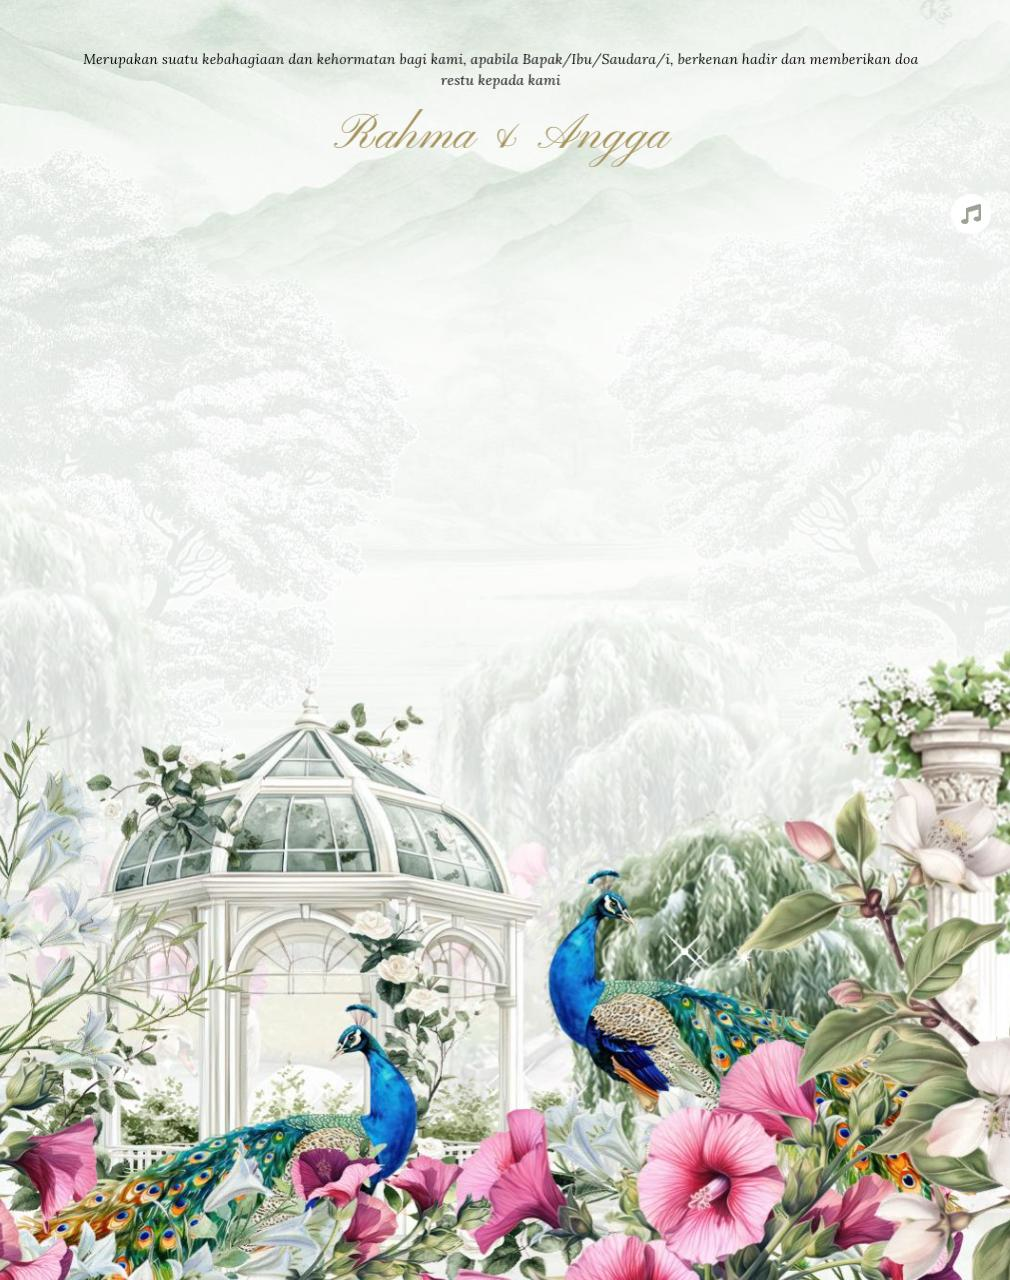
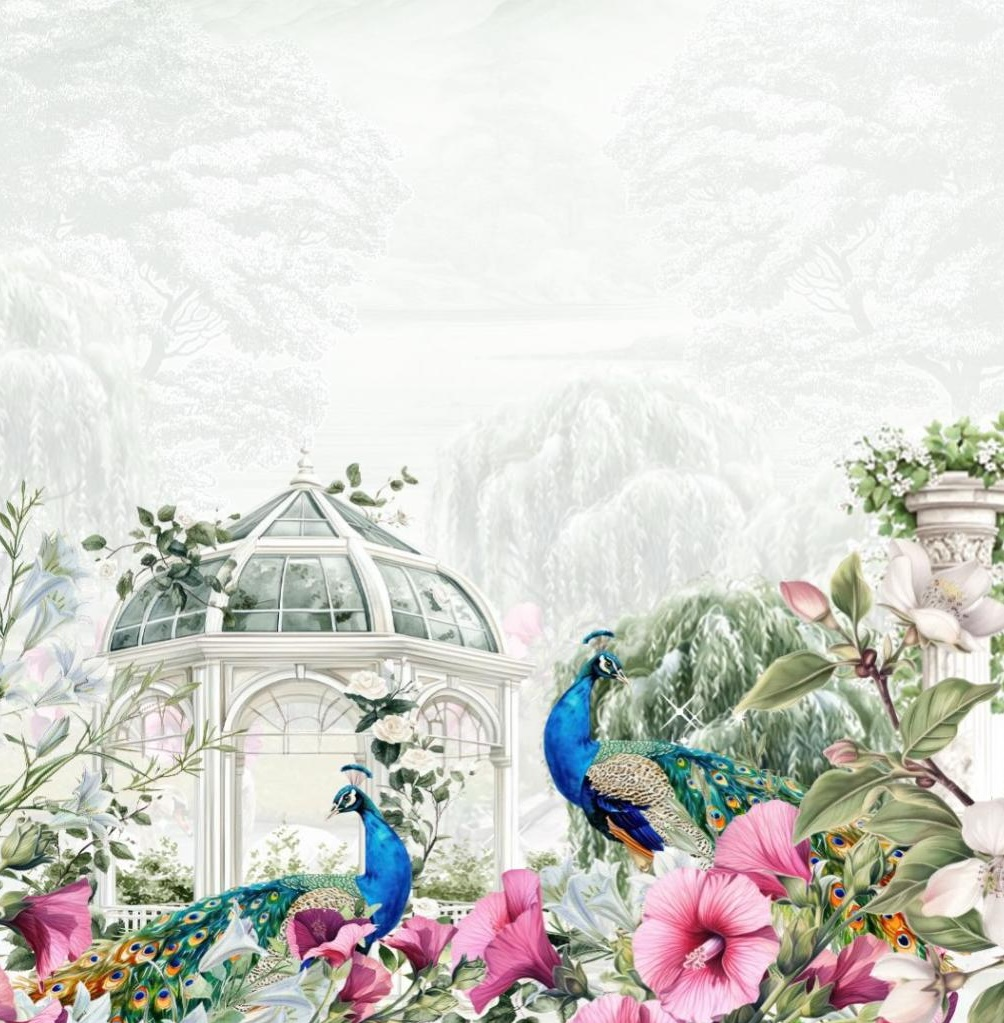
update card gabungan

diff --git a/src/app/page.tsx b/src/app/page.tsx
@@ -25,6 +25,7 @@ export default function WeddingGuestBook() {
   const [loading, setLoading] = useState(true);
   const [searchQuery, setSearchQuery] = useState("");
   const [selectedGuest, setSelectedGuest] = useState<Guest | null>(null);
+  const [grandStats, setGrandStats] = useState<{ total: number; hadir: number; totalOrang: number }>({ total: 0, hadir: 0, totalOrang: 0 });
   
   // Modal state
   const [isSubmitting, setIsSubmitting] = useState(false);
@@ -63,23 +64,26 @@ export default function WeddingGuestBook() {
     setCustomGroup("");
   };
 
-  const fetchGuests = async (sheetName: string) => {
-    setLoading(true);
+  const fetchGuests = async (sheetName: string, silent = false) => {
+    if (!silent) setLoading(true);
     try {
       const res = await fetch(`/api/guests?sheet=${encodeURIComponent(sheetName)}`);
       const data = await res.json();
       if (data.guests) {
         setGuests(data.guests);
       }
+      if (data.grandStats) {
+        setGrandStats(data.grandStats);
+      }
     } catch (error) {
       console.error("Error fetching guests:", error);
     } finally {
-      setLoading(false);
+      if (!silent) setLoading(false);
     }
   };
 
   useEffect(() => {
-    fetchGuests(activeTab);
+    fetchGuests(activeTab, false);
   }, [activeTab]);
 
   const filteredGuests = useMemo(() => {
@@ -141,6 +145,7 @@ export default function WeddingGuestBook() {
         setCheckinSuccess(`${selectedGuest.name} berhasil check-in!`);
         setTimeout(() => setCheckinSuccess(null), 3000);
         setSelectedGuest(null);
+        fetchGuests(activeTab, true); // Refresh list and grandStats silently
       } else {
         const data = await res.json();
         setCheckinError(data.error || 'Gagal melakukan check-in. Coba lagi.');
@@ -173,6 +178,7 @@ export default function WeddingGuestBook() {
         setCheckinSuccess(`Check-in ${selectedGuest.name} berhasil dibatalkan.`);
         setTimeout(() => setCheckinSuccess(null), 3000);
         setSelectedGuest(null);
+        fetchGuests(activeTab, true); // Refresh list and grandStats silently
       } else {
         const data = await res.json();
         setCheckinError(data.error || 'Gagal membatalkan check-in. Coba lagi.');
@@ -203,6 +209,7 @@ export default function WeddingGuestBook() {
         setCheckinSuccess(`Tamu ${selectedGuest.name} berhasil dihapus.`);
         setTimeout(() => setCheckinSuccess(null), 3000);
         setSelectedGuest(null);
+        fetchGuests(activeTab, true); // Refresh list and grandStats silently
       } else {
         const data = await res.json();
         setCheckinError(data.error || 'Gagal menghapus tamu. Coba lagi.');
@@ -246,6 +253,7 @@ export default function WeddingGuestBook() {
           setTimeout(() => setCheckinSuccess(null), 3000);
           setIsAddingGuest(false);
           setSearchQuery(""); // Clear search so they can see the guest
+          fetchGuests(activeTab, true); // Refresh list and grandStats silently
         }
       } else {
         const data = await res.json();
@@ -295,33 +303,81 @@ export default function WeddingGuestBook() {
         initial={{ opacity: 0, scale: 0.95 }}
         animate={{ opacity: 1, scale: 1 }}
         transition={{ delay: 0.1 }}
-        className="grid grid-cols-1 md:grid-cols-3 gap-4"
+        className="space-y-6"
       >
-        <div className="glass-card p-6 flex items-center space-x-4">
-          <div className="p-3 bg-emerald-600/20 rounded-xl text-emerald-700">
-            <Users size={28} />
-          </div>
-          <div>
-            <p className="text-sm text-slate-600 font-medium">Total Undangan</p>
-            <h3 className="text-3xl font-bold text-slate-800">{stats.total}</h3>
+        {/* Grand Combined Stats */}
+        <div className="space-y-2">
+          <h4 className="text-xs font-bold text-[#b8993e] tracking-wider uppercase px-1">
+            Statistik Gabungan (Keseluruhan)
+          </h4>
+          <div className="grid grid-cols-1 md:grid-cols-3 gap-4">
+            <div className="glass-card p-6 flex items-center space-x-4 border-amber-100/50">
+              <div className="p-3 bg-amber-500/20 rounded-xl text-[#b8993e]">
+                <Users size={28} />
+              </div>
+              <div>
+                <p className="text-sm text-slate-600 font-medium">Total Undangan Gabungan</p>
+                <h3 className="text-3xl font-bold text-slate-800">{grandStats.total}</h3>
+              </div>
+            </div>
+
+            <div className="glass-card p-6 flex items-center space-x-4 border-amber-100/50">
+              <div className="p-3 bg-amber-500/20 rounded-xl text-[#b8993e]">
+                <CheckCircle2 size={28} />
+              </div>
+              <div>
+                <p className="text-sm text-slate-600 font-medium">Tamu Hadir Gabungan</p>
+                <h3 className="text-3xl font-bold text-slate-800">{grandStats.hadir}</h3>
+              </div>
+            </div>
+
+            <div className="glass-card p-6 flex items-center space-x-4 border-amber-100/50">
+              <div className="p-3 bg-amber-500/20 rounded-xl text-[#b8993e]">
+                <UserCheck size={28} />
+              </div>
+              <div>
+                <p className="text-sm text-slate-600 font-medium">Total Kehadiran Gabungan</p>
+                <h3 className="text-3xl font-bold text-slate-800">{grandStats.totalOrang}</h3>
+              </div>
+            </div>
           </div>
         </div>
-        <div className="glass-card p-6 flex items-center space-x-4">
-          <div className="p-3 bg-emerald-600/20 rounded-xl text-emerald-700">
-            <CheckCircle2 size={28} />
-          </div>
-          <div>
-            <p className="text-sm text-slate-600 font-medium">Tamu Hadir (Grup)</p>
-            <h3 className="text-3xl font-bold text-slate-800">{stats.hadir}</h3>
-          </div>
-        </div>
-        <div className="glass-card p-6 flex items-center space-x-4">
-          <div className="p-3 bg-emerald-600/20 rounded-xl text-emerald-700">
-            <UserCheck size={28} />
-          </div>
-          <div>
-            <p className="text-sm text-slate-600 font-medium">Total Kehadiran (Orang)</p>
-            <h3 className="text-3xl font-bold text-slate-800">{stats.totalOrang}</h3>
+
+        {/* Active Tab Stats */}
+        <div className="space-y-2">
+          <h4 className="text-xs font-bold text-emerald-800 tracking-wider uppercase px-1">
+            Statistik {activeTab === "Tamu Rahma (Perempuan)" ? "Keluarga Perempuan (Rahma)" : "Keluarga Laki-Laki (Angga)"}
+          </h4>
+          <div className="grid grid-cols-1 md:grid-cols-3 gap-4">
+            <div className="glass-card p-6 flex items-center space-x-4">
+              <div className="p-3 bg-emerald-600/20 rounded-xl text-emerald-700">
+                <Users size={28} />
+              </div>
+              <div>
+                <p className="text-sm text-slate-600 font-medium">Total Undangan</p>
+                <h3 className="text-3xl font-bold text-slate-800">{stats.total}</h3>
+              </div>
+            </div>
+
+            <div className="glass-card p-6 flex items-center space-x-4">
+              <div className="p-3 bg-emerald-600/20 rounded-xl text-emerald-700">
+                <CheckCircle2 size={28} />
+              </div>
+              <div>
+                <p className="text-sm text-slate-600 font-medium">Tamu Hadir (Grup)</p>
+                <h3 className="text-3xl font-bold text-slate-800">{stats.hadir}</h3>
+              </div>
+            </div>
+
+            <div className="glass-card p-6 flex items-center space-x-4">
+              <div className="p-3 bg-emerald-600/20 rounded-xl text-emerald-700">
+                <UserCheck size={28} />
+              </div>
+              <div>
+                <p className="text-sm text-slate-600 font-medium">Total Kehadiran (Orang)</p>
+                <h3 className="text-3xl font-bold text-slate-800">{stats.totalOrang}</h3>
+              </div>
+            </div>
           </div>
         </div>
       </motion.div>

diff --git a/src/lib/db.ts b/src/lib/db.ts
@@ -136,3 +136,15 @@ export async function deleteGuestFromDb(sheetName: string, guestRow: number): Pr
     [sheetName, guestRow]
   );
 }
+
+export async function getGrandStats(): Promise<{ total: number; hadir: number; totalOrang: number }> {
+  const db = getPool();
+  const [rows] = await db.execute(
+    'SELECT COUNT(*) as total, SUM(checklist) as hadir, SUM(jumlah_kehadiran) as totalOrang FROM guests'
+  ) as any;
+  return {
+    total: rows[0]?.total || 0,
+    hadir: parseInt(rows[0]?.hadir, 10) || 0,
+    totalOrang: parseInt(rows[0]?.totalOrang, 10) || 0,
+  };
+}

diff --git a/src/app/api/guests/route.ts b/src/app/api/guests/route.ts
@@ -1,5 +1,5 @@
 import { NextResponse } from 'next/server';
-import { getGuestsFromDb, checkinGuest, resetGuest, createGuest, deleteGuestFromDb } from '@/lib/db';
+import { getGuestsFromDb, checkinGuest, resetGuest, createGuest, deleteGuestFromDb, getGrandStats } from '@/lib/db';
 
 export async function GET(request: Request) {
   try {
@@ -17,13 +17,17 @@ export async function GET(request: Request) {
     const totalHadirChecklist = guests.filter(g => g.checklist).length;
     const totalHadirOrang = guests.reduce((sum, g) => sum + g.jumlahKehadiran, 0);
 
+    // Get grand stats (combined totals across all sheets)
+    const grandStats = await getGrandStats();
+
     return NextResponse.json({
       guests,
       stats: {
         totalDiundang,
         totalHadirChecklist,
         totalHadirOrang,
-      }
+      },
+      grandStats
     });
   } catch (error: any) {
     console.error("API GET Error:", error);